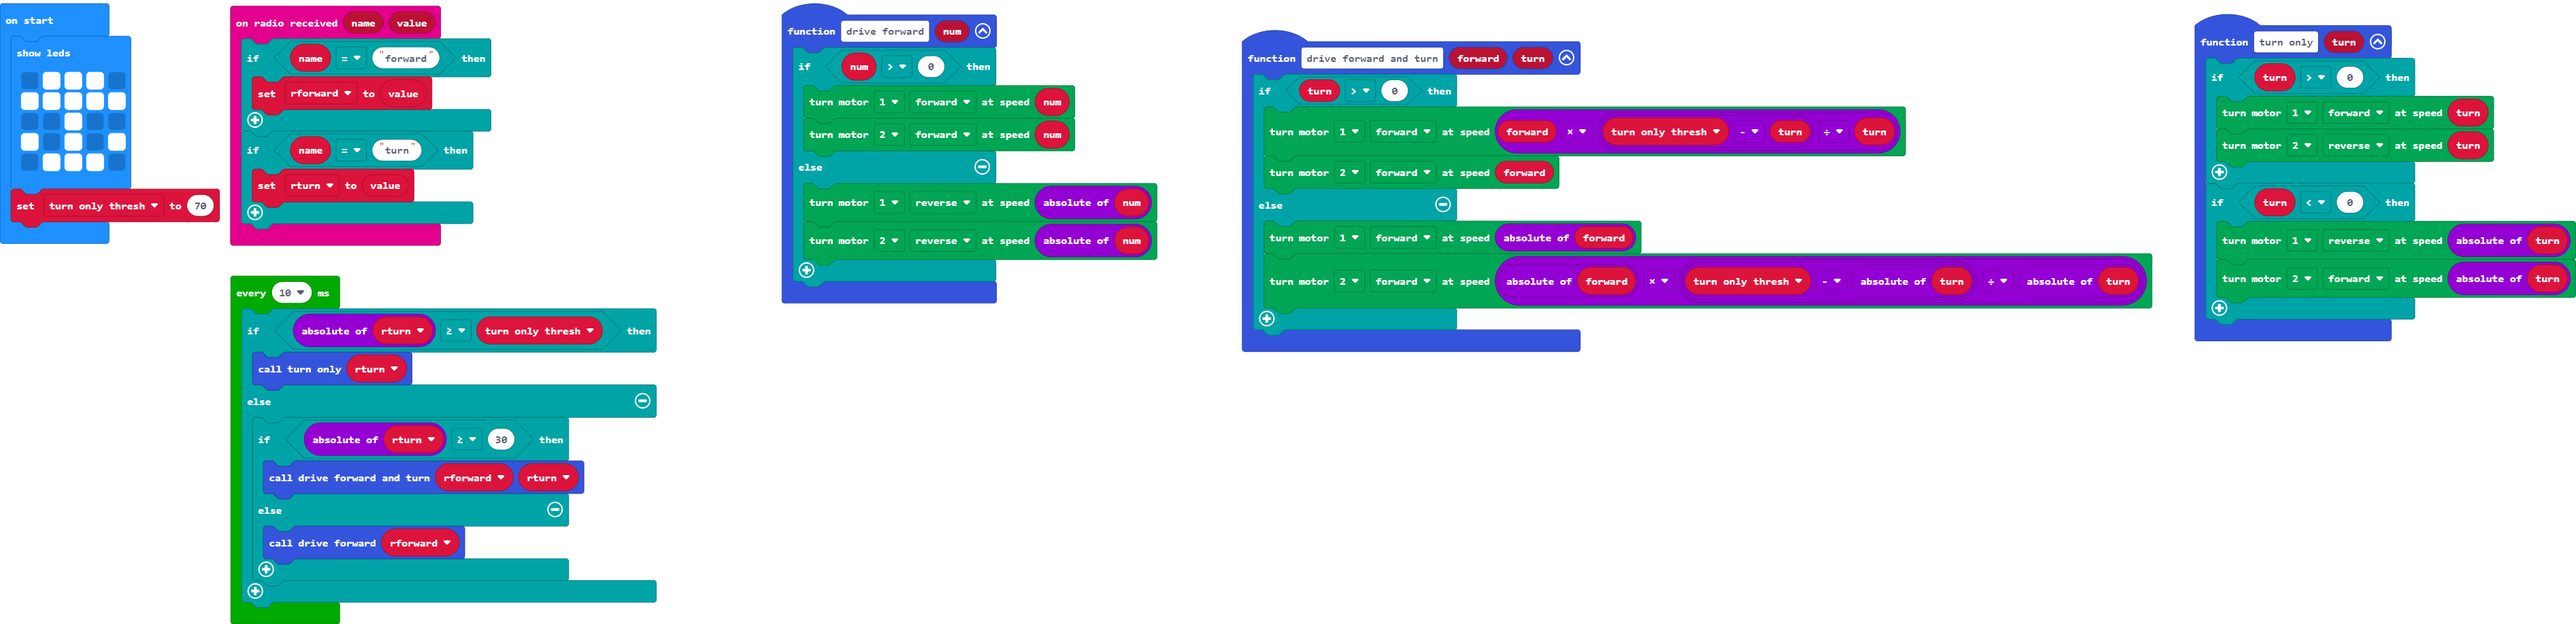
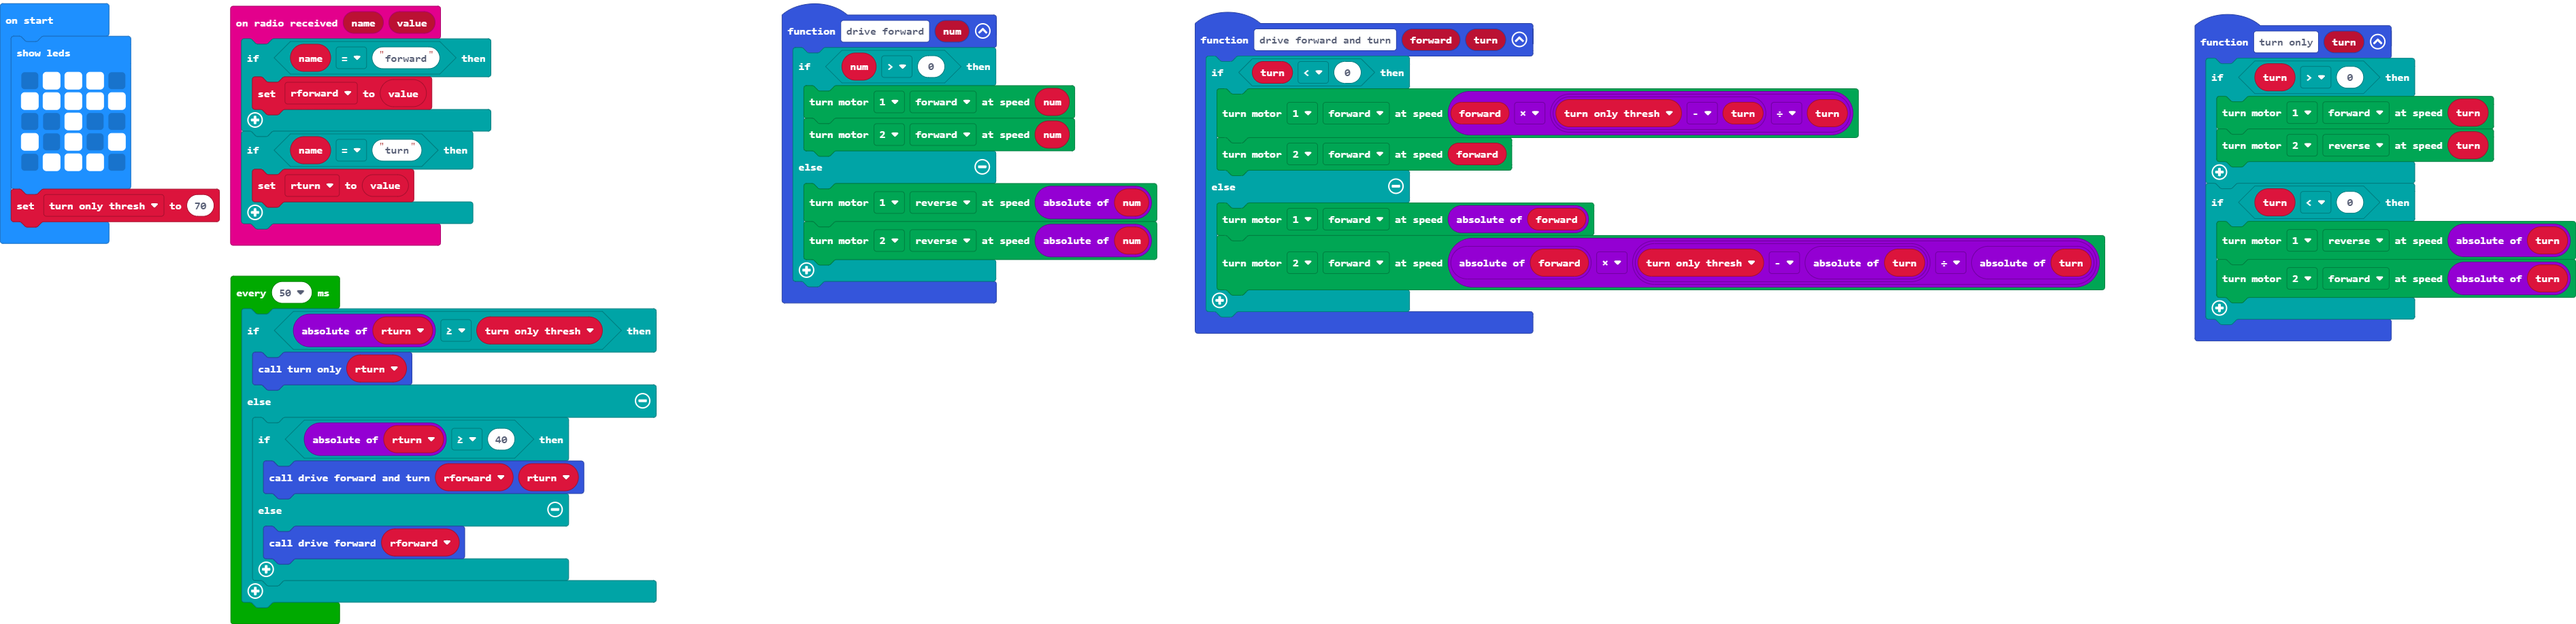
Update main.blocks, main.ts

Changed region(s): [[0.4363, 0.0, 0.8415, 0.5795]]

diff --git a/main.ts b/main.ts
@@ -9,7 +9,7 @@ function turn_only (turn: number) {
     }
 }
 function drive_forward_and_turn (forward: number, turn: number) {
-    if (turn > 0) {
+    if (turn < 0) {
         kitronik_klip_motor.motorOn(kitronik_klip_motor.Motors.Motor1, kitronik_klip_motor.MotorDirection.Forward, forward * ((turn_only_thresh - turn) / turn))
         kitronik_klip_motor.motorOn(kitronik_klip_motor.Motors.Motor2, kitronik_klip_motor.MotorDirection.Forward, forward)
     } else {
@@ -45,11 +45,11 @@ basic.showLeds(`
     . # # # .
     `)
 turn_only_thresh = 70
-loops.everyInterval(10, function () {
+loops.everyInterval(50, function () {
     if (Math.abs(rturn) >= turn_only_thresh) {
         turn_only(rturn)
     } else {
-        if (Math.abs(rturn) >= 30) {
+        if (Math.abs(rturn) >= 40) {
             drive_forward_and_turn(rforward, rturn)
         } else {
             drive_forward(rforward)
